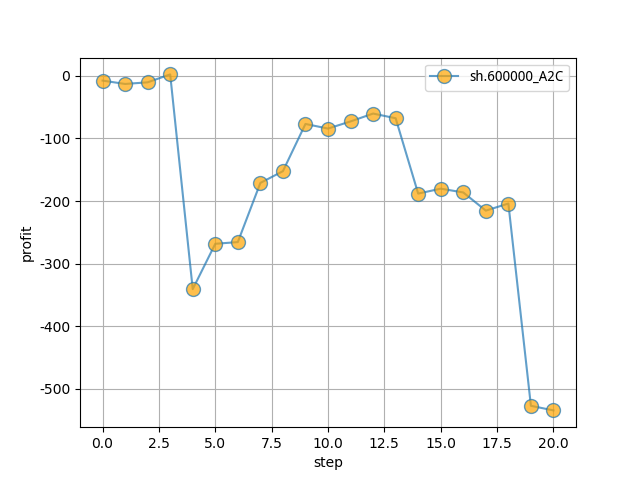
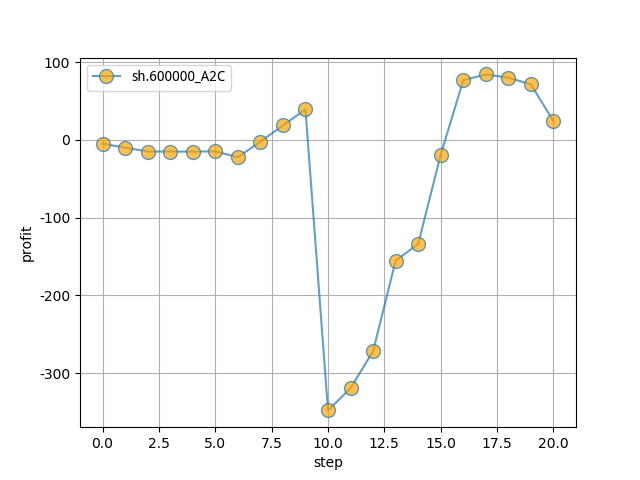
st带*股票名字优化.

diff --git a/env/StockTradingEnv.py b/env/StockTradingEnv.py
@@ -34,7 +34,7 @@ class StockTradingEnv(gym.Env):
 
         # Prices contains the OHCL values for the last five prices
         self.observation_space = spaces.Box(
-            low=0, high=1, shape=(32,), dtype=np.float16)
+            low=0, high=1, shape=(30,), dtype=np.float16)
 
     def _next_observation(self):
         obs = np.array([
@@ -50,7 +50,6 @@ class StockTradingEnv(gym.Env):
             self.df.loc[self.current_step - 1, 'peTTM'] / 1e4,
             self.df.loc[self.current_step - 1, 'pbMRQ'] / 100,
             self.df.loc[self.current_step - 1, 'psTTM'] / 100,
-            self.df.loc[self.current_step - 1, 'pctChg'] / 1e3,
 
             self.df.loc[self.current_step, 'open'] / MAX_SHARE_PRICE,
             self.df.loc[self.current_step, 'high'] / MAX_SHARE_PRICE,
@@ -64,7 +63,6 @@ class StockTradingEnv(gym.Env):
             self.df.loc[self.current_step, 'peTTM'] / 1e4,
             self.df.loc[self.current_step, 'pbMRQ'] / 100,
             self.df.loc[self.current_step, 'psTTM'] / 100,
-            self.df.loc[self.current_step, 'pctChg'] / 1e3,
 
             self.balance / MAX_ACCOUNT_BALANCE,
             self.max_net_worth / MAX_ACCOUNT_BALANCE,
@@ -127,13 +125,16 @@ class StockTradingEnv(gym.Env):
             self.current_step = 6  # loop training
             # done = True
 
+
         # reward 1:
-        reward = self.net_worth - INITIAL_ACCOUNT_BALANCE
-        reward = 1 if reward > 0 else -100
+        # reward = self.net_worth - INITIAL_ACCOUNT_BALANCE
+        # reward = 1 if reward > 0 else -100
+        # 需要修改 self.reward_range = (0, MAX_ACCOUNT_BALANCE)
+
 
         # reward 2:
-        # delay_modifier = (self.current_step / MAX_STEPS)
-        # reward = self.balance * delay_modifier
+        delay_modifier = (self.current_step / MAX_STEPS)
+        reward = self.balance * delay_modifier
 
         if self.net_worth <= 0:
             done = True

diff --git a/data/get_stock_data_test.py b/data/get_stock_data_test.py
@@ -38,7 +38,7 @@ class Downloader(object):
                                                    start_date=self.date_start,
                                                    end_date=self.date_end,
                                                    adjustflag="1").get_data()  # adjustflag：复权类型，默认不复权：3；1：后复权；2：前复权
-            df_code.to_csv(f'{self.output_dir}/{row["code"]}.{row["code_name"]}.csv', index=False)
+            df_code.to_csv(f'{self.output_dir}/{row["code"]}.{row["code_name"].replace("*","star_")}.csv', index=False)
         self.exit()
 
 if __name__ == '__main__':

diff --git a/data/get_stock_data_train.py b/data/get_stock_data_train.py
@@ -38,7 +38,7 @@ class Downloader(object):
                                                    start_date=self.date_start,
                                                    end_date=self.date_end,
                                                    adjustflag="1").get_data() # adjustflag：复权类型，默认不复权：3；1：后复权；2：前复权
-            df_code.to_csv(f'{self.output_dir}/{row["code"]}.{row["code_name"]}.csv', index=False)
+            df_code.to_csv(f'{self.output_dir}/{row["code"]}.{row["code_name"].replace("*","star_")}.csv', index=False)
         self.exit()
 
 if __name__ == '__main__':

diff --git a/README.md b/README.md
@@ -29,6 +29,7 @@ python main.py
 3. 丰富RL模型
 4. 增加交易手续费
 5. 股票价格后复权
+6. 特征优化
 
 todo:
 - 将特征接口抽出来
